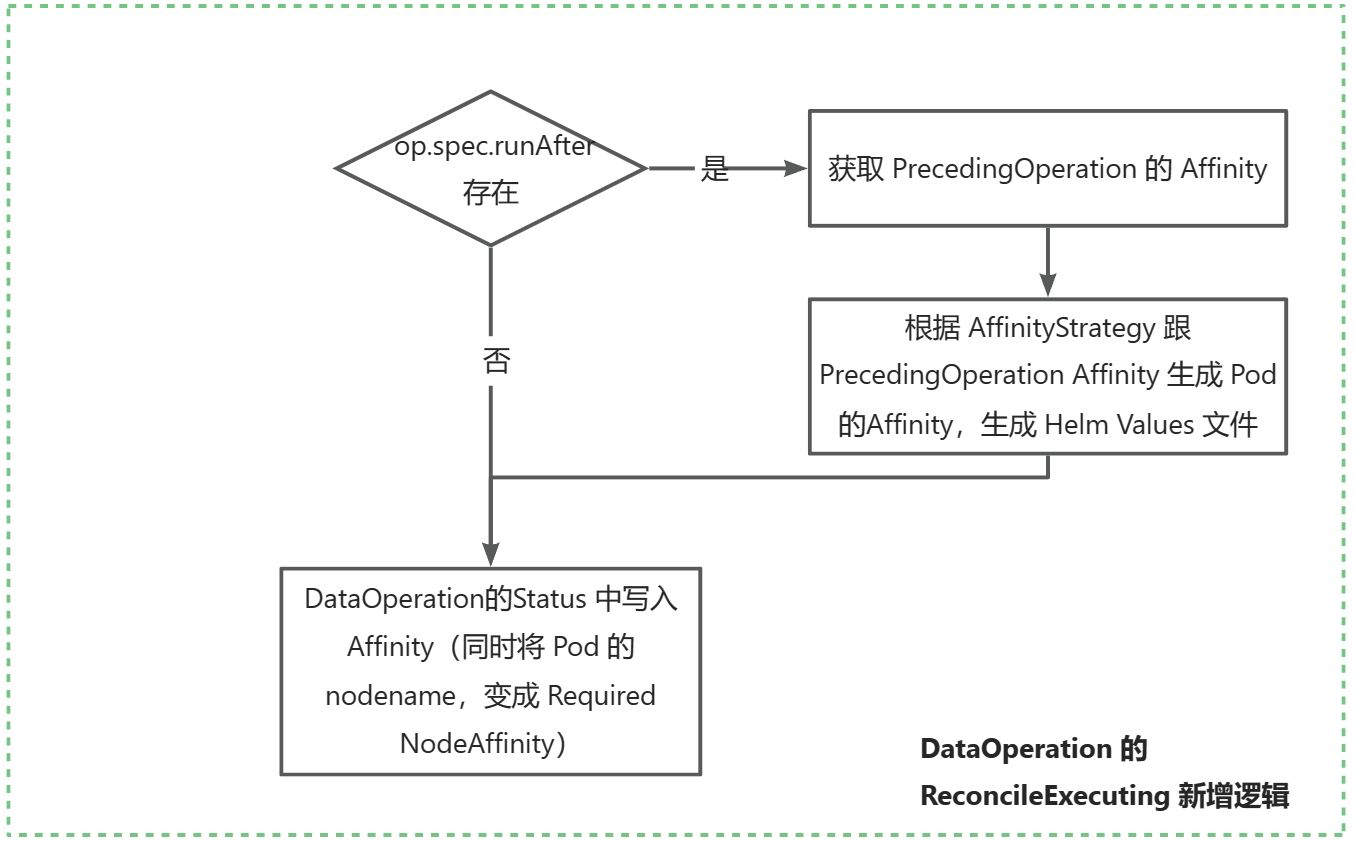
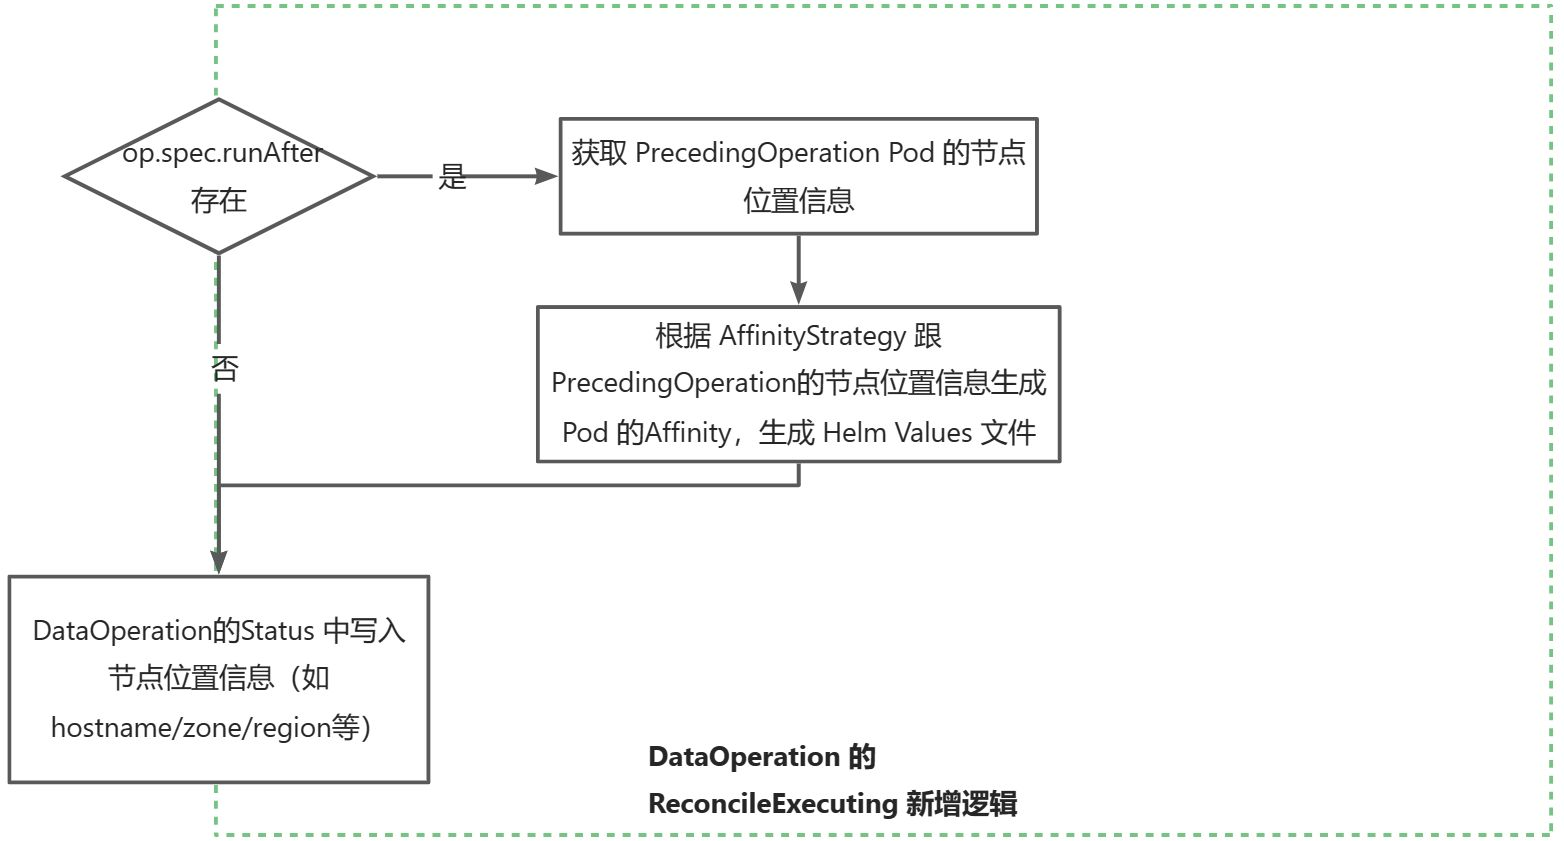
udpate image, fix the  pseudo code

diff --git a/proposals/dataoperation/v1.0_dataflow_affinity/v1.0_dataflow_affinity_zh.md b/proposals/dataoperation/v1.0_dataflow_affinity/v1.0_dataflow_affinity_zh.md
@@ -7,8 +7,8 @@
 ## 目标
 
 - 支持 DataFlow 中不同的 Data Operations的 Pod 的亲和性"继承"， 调度到同一个 node/zone/region，提升整体的 DataFlow 的性能；
-- 支持不同的亲和性"继承"策略，默认“”（空值），保持现状不变，可选 require / prefer；
-- CRD 支持设置 require/prefer 的 node label，用于亲和性匹配，默认使用 `kubernetes.io/hostname` 的label；
+- 支持不同的亲和性"继承"策略，默认“”（空值），保持现状不变，可选 Require / Prefer；
+- CRD 支持设置 Require/Prefer 的 node label，用于亲和性匹配，默认使用 `kubernetes.io/hostname` 的label；
 ## 设计
 
 ### 0. 流程图
@@ -18,9 +18,7 @@
 - Data Operation 在 Status 新增 Pod 运行时的节点信息；
 - Data Operation Pod 的亲和性，**根据 AffinityStrategy 添加从上一个 Data Operation Status 中匹配的亲和性**；
 
-![](images/data_flow_affinity_flow.jpeg)
-
-### 
+![img](images/data_flow_affinity_flow.jpeg)
 
 ### 1. Data Operation Status 新增运行时的节点信息
 
@@ -35,14 +33,12 @@ type OperationStatus struct {
 }
 ```
 
-1. Fluid 会根据 Operation Pod 所在的节点，注入`kubernetes.io/hostname`、`topology.kubernetes.io/zone`、`topology.kubernetes.io/region`信息；
+1. Fluid 会根据 Operation Pod 所在的节点，添加`kubernetes.io/hostname`、`topology.kubernetes.io/zone`、`topology.kubernetes.io/region`的标签信息；
 
-2. 如果用户在 Operation Spec 中定义了 NodeAffinity，Fluid 也会根据 key 去 Pod 所在的 Node的labels 去匹配并记录，如果不存在则不记录；
-   - 如果 NodeSelectorOperator 是`In`/`NotIn`，则记录 key 和 value；
-   - 如果 NodeSelectorOperator 是`Exists`/`DoesNotExist`，则记录 key，value 是""（空字符串）；
-   - 如果 NodeSelectorOperator 是`LT`/`GT`，则记录 key 和 value（node上该标签的值）；
+2. 如果用户在 Operation Spec 中定义了 NodeAffinity，Fluid 也会根据 key 去 Pod 所在的 Node的 labels 去匹配并记录键值对，如果不存在则不记录；
+   - 无论用户定义的 NodeSelectorOperator 是`In/NotIn/Exists/Lt/..`，后面都换转为成 `In`类型的 NodeAffinity 被后续的Op使用；
 
-- <font color='red'>如果 Operation 是个分布式作业，具备多个Pod，则不记录运行时的节点信息；</font>
+3. <font color='red'>如果 Operation 是个分布式作业，具备多个Pod，则不记录运行时的节点信息；</font>
 
 ### 2. Data Operation 根据前一个Op的运行时信息添加亲和性调度
 
@@ -94,20 +90,27 @@ Data Operation 在生成 Helm Values 文件时，需要**根据上一个 DataOpe
 
 **每个 Operation 执行时的 PodAffinity 的计算公式**如下：
 
-- $PodAffinity(Op) = Op.Spec.Affinity + MatchedAffinity(Op, Referent\_Op.Status.NodeAffinityLabels))$
+- $PodAffinity(Op) = Op.Spec.Affinity + MatchAndGenerateAffinity(Op)$
 
 
 ```go
-func MatchedAffinity(current DataOperation, prevOpNodeLabels map[string]string) *corev1.Affinity {
+func MatchAndGenerateAffinity(current DataOperation) *corev1.Affinity {
     // 如果 `Op` 没有前置操作，则 MatchedAffinity 返回 `nil`
     if current.Spec.RunAfter == nil {
         return nil
     }
+    // 获取前置操作的运行时的节点信息
+    prevOpNodeLabels := getReferentOp(current.Spec.RunAfter).Status.NodeAffinityLabels
     
     policy := current.Spec.RunAfter.AffinityStratgey.Policy
 
     // 1. 默认不配置，从上个操作中不继承任何亲和性
     if policy == "" {
+        return nil
+    }
+    
+    // 上一个Op Status 中没有节点位置信息
+    if prevOpNodeLabels == nil {
         return nil
     }
     
@@ -119,15 +122,11 @@ func MatchedAffinity(current DataOperation, prevOpNodeLabels map[string]string) 
                 "kubernetes.io/hostname"
             }
         }
-        // 上一个Op Status 中没有节点位置信息
-        if prevOpNodeLabels == nil {
-            return nil
-        }
         for _, label := range(current.Spec.RunAfter.AffinityStratgey.Require) {
             // 根据 label name 匹配相关的 affinity
-            affinityTerms := getMatchedAffinity(label, prevOpNodeLabels)
+            value := prevOpNodeLabels[label]
             // 转为 NodeSelectorTerm (require)
-            return transfromToNodeSelectorTerm(affinityTerms)
+            return transfromToNodeSelectorTerm(label, value)
         }
     }
     
@@ -137,20 +136,16 @@ func MatchedAffinity(current DataOperation, prevOpNodeLabels map[string]string) 
         if current.Spec.RunAfter.AffinityStratgey.Prefer == nil {
             current.Spec.RunAfter.AffinityStratgey.Prefer = []Prefer {
                 {
-                    Key: "kubernetes.io/hostname",
+                    Name: "kubernetes.io/hostname",
                     Weight: 100,
                 },
             }
         }
-        // 上一个Op Status 中没有节点位置信息
-        if prevOpNodeLabels == nil {
-            return nil
-        }
         for _, prefer := range(current.Spec.RunAfter.AffinityStratgey.Prefer) {
             // 根据 label name 匹配相关的 affinity
-            affinityTerms := getMatchedAffinity(prefer.Name, prevOpNodeLabels)
+            value := prevOpNodeLabels[prefer.Name]
             // 转为 PreferredSchedulingTerm，并设置 Weight
-            return transfromToPreferredSchedulingTerm(prefer, affinityTerms)
+            return transfromToPreferredSchedulingTerm(prefer.Name, prefer.Weight, value)
         }
     }
 }
